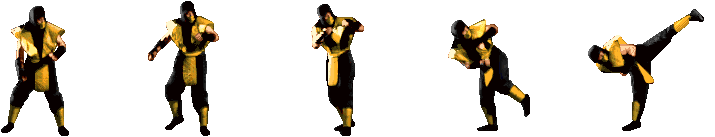
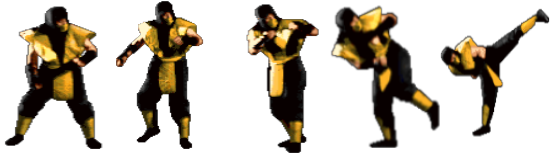
Mejore la patada alta y agregue los delete de punteros que faltaban

diff --git a/view/GameView.cpp b/view/GameView.cpp
@@ -43,10 +43,48 @@ GameView::~GameView() {
 	delete scorpionWalk;
     delete scorpionStance;
     delete scorpionSideJump;
+    delete scorpionDuck;
+    delete  scorpionKick;
+    delete  scorpionKickDown;
+    delete  scorpionPunchJump;
+    delete  scorpionPunchUp;
+    delete  scorpionPunch;
+    delete  scorpionWinner;
+    delete  scorpionBodyParts;
+    delete  scorpionFinisher;
+    delete  scorpionShoot;
+    delete  scorpionDizzy;
+    delete  scorpionFall;
+    delete  scorpionBeingHit;
+    delete  scorpionBlockDown;
+    delete  scorpionBlock;
+    delete  scorpionHead;
+    delete  raidenWalk;
+    delete  raidenStance;
+    delete  raidenJump;
+    delete  raidenSideJump;
+    delete  raidenDuck;
+    delete  raidenKick;
+    delete  raidenKickDown;
+    delete  raidenPunchJump;
+    delete  raidenPunchUp;
+    delete  raidenPunch;
+    delete  raidenWinner;
+    delete  raidenBodyParts;
+    delete  raidenFinisher;
+    delete  raidenShoot;
+    delete  raidenDizzy;
+    delete  raidenFall;
+    delete  raidenBeingHit;
+    delete  raidenBlockDown;
+    delete  raidenBlock;
+    delete  raidenHead;
+
     for (int i = 1 ; i < layerCount ; i++) {
         delete layerSprites[i];
     }
     delete layerSprites;
+
     SDL_DestroyRenderer(renderer);
     SDL_DestroyWindow(window);
 }

diff --git a/model/cargaJson.cpp b/model/cargaJson.cpp
@@ -308,7 +308,6 @@ void cargaPersonaje(Json::Value personaje, float &charAlto, float &charAncho, in
                     filenameJump, filenameWalk, filenameSideJump, filenameStance);
 
     Mylog->Log(mensaje, ERROR_LEVEL_INFO);
-
 }
 
 void validarExistenciaArchivo(const char* defaultFile,char* fileNameToValidate)
